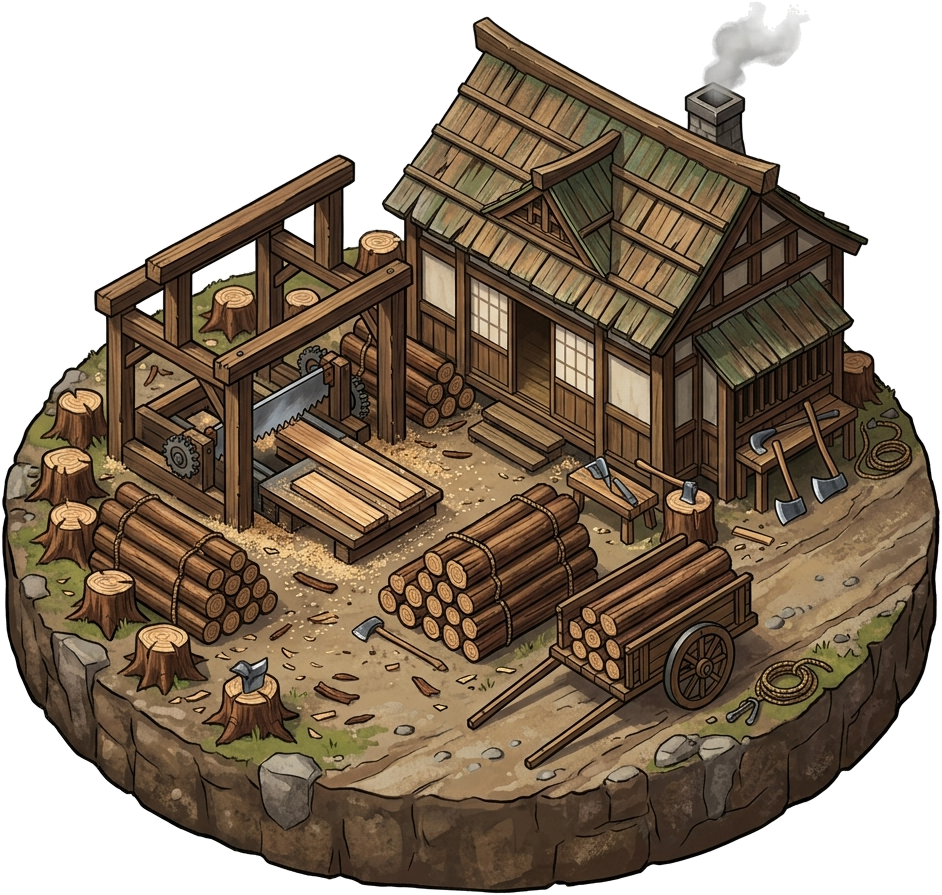
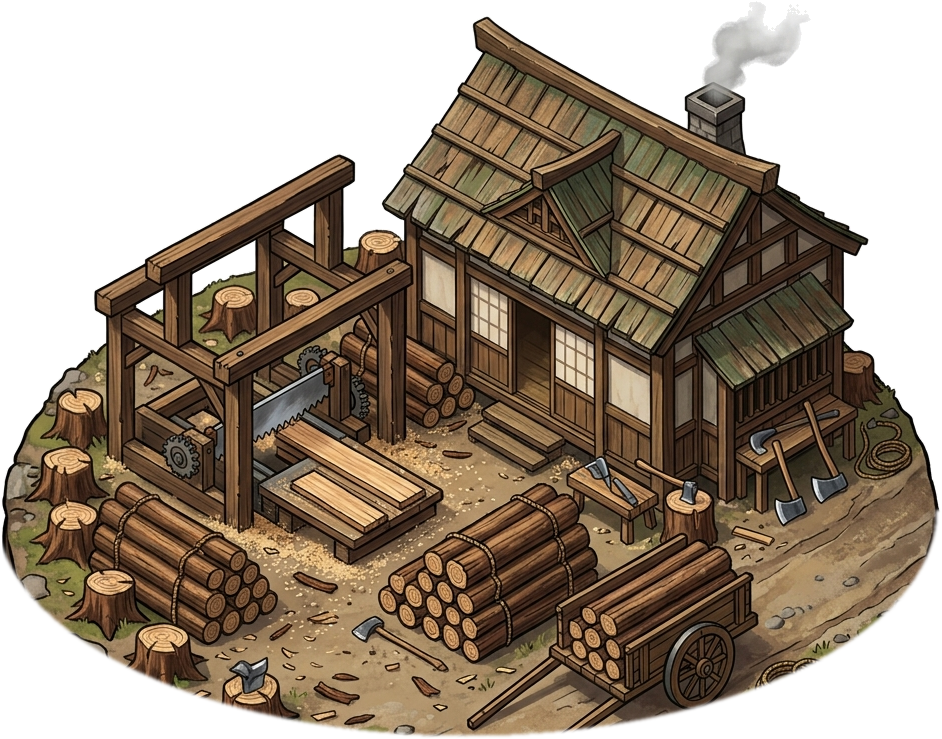
feat(city, resources): lower tenshu, circularize resource tiles, and add 6 feudal buildings to complete all 16 city slots

diff --git a/config/game_constants.php b/config/game_constants.php
@@ -73,12 +73,12 @@ const CITY_SLOT_LAYOUT = [
     26 => 'radar',         // Tour de Guet Yagura (octogonale centrale)
     27 => 'quantum_vault', // Cachette Secrète Sous Terre
     28 => 'embassy',       // Pavillon Diplomatique des Clans
-    29 => 'free_plot',     // Emplacement Libre / Terrain à Bâtir
-    30 => 'free_plot',     // Emplacement Libre / Terrain à Bâtir
-    31 => 'free_plot',     // Emplacement Libre / Terrain à Bâtir
-    32 => 'free_plot',     // Emplacement Libre / Terrain à Bâtir
-    33 => 'free_plot',     // Emplacement Libre / Terrain à Bâtir
-    34 => 'wall',          // Muraille & Remparts de Cité (Enceinte fortifiée)
+    29 => 'sawmill',           // Atelier de Charpenterie (Kizukuri)
+    30 => 'stonemason',        // Taille de Granit & Maçonnerie (Ishizukuri)
+    31 => 'grain_mill',        // Meunerie & Brasserie de Riz (Sakagura)
+    32 => 'blacksmith',        // Grande Forge du Tamahagane (Kaji-ba)
+    33 => 'teahouse',          // Pavillon de Thé & Sérénité (Chashitsu)
+    34 => 'wall',              // Muraille & Remparts de Cité (Enceinte fortifiée)
 ];
 
 // Métadonnées des parcelles rurales du domaine
@@ -239,6 +239,66 @@ const BUILDINGS = [
         'base_cost' => ['metal' => 110, 'crystal' => 160, 'deuterium' => 90],
         'cost_multiplier' => 1.45,
         'base_time' => 130,
+        'max_level' => 20
+    ],
+    'sawmill' => [
+        'name' => 'Atelier de Charpenterie (Kizukuri)',
+        'icon' => '🪚',
+        'tile_img' => 'tile_sawmill.png',
+        'description' => 'Atelier des maîtres charpentiers façonnant poutres et madriers. Augmente la production de Bois de Cèdre de votre fief de +5% par niveau.',
+        'base_cost' => ['metal' => 180, 'crystal' => 140, 'deuterium' => 60],
+        'cost_multiplier' => 1.5,
+        'base_time' => 150,
+        'max_level' => 20
+    ],
+    'stonemason' => [
+        'name' => 'Taille de Granit & Maçonnerie (Ishizukuri)',
+        'icon' => '⛏',
+        'tile_img' => 'tile_stonemason.png',
+        'description' => 'Atelier des tailleurs de pierre taillant les blocs cyclopéens. Augmente la production de Pierre de Taille de +5% par niveau et renforce la résistance des édifices.',
+        'base_cost' => ['metal' => 130, 'crystal' => 190, 'deuterium' => 70],
+        'cost_multiplier' => 1.5,
+        'base_time' => 160,
+        'max_level' => 20
+    ],
+    'grain_mill' => [
+        'name' => 'Meunerie & Brasserie de Riz (Sakagura)',
+        'icon' => '🍶',
+        'tile_img' => 'tile_grain_mill.png',
+        'description' => 'Brasserie et meunerie artisanale traitant les récoltes de riz. Augmente la production de Koku de Riz de +5% par niveau.',
+        'base_cost' => ['metal' => 160, 'crystal' => 150, 'deuterium' => 100],
+        'cost_multiplier' => 1.5,
+        'base_time' => 170,
+        'max_level' => 20
+    ],
+    'blacksmith' => [
+        'name' => 'Grande Forge du Tamahagane (Kaji-ba)',
+        'icon' => '⚔',
+        'tile_img' => 'tile_blacksmith.png',
+        'description' => 'Forge des maîtres armuriers façonnant le tamahagane. Confère un bonus de +2% en puissance martiale et résistance d\'armure à toutes vos troupes par niveau.',
+        'base_cost' => ['metal' => 220, 'crystal' => 180, 'deuterium' => 90],
+        'cost_multiplier' => 1.55,
+        'base_time' => 190,
+        'max_level' => 20
+    ],
+    'teahouse' => [
+        'name' => 'Pavillon de Thé & Sérénité (Chashitsu)',
+        'icon' => '🍵',
+        'tile_img' => 'tile_teahouse.png',
+        'description' => 'Pavillon de méditation et cérémonie du thé entouré d\'un jardin zen. Augmente la Sérénité & Ferveur de votre domaine de +5% par niveau.',
+        'base_cost' => ['metal' => 140, 'crystal' => 120, 'deuterium' => 80],
+        'cost_multiplier' => 1.5,
+        'base_time' => 140,
+        'max_level' => 20
+    ],
+    'tournament_square' => [
+        'name' => 'Place d\'Exercices & Relais (Shurenjo)',
+        'icon' => '🎯',
+        'tile_img' => 'tile_tournament_square.png',
+        'description' => 'Terrain de manœuvres et relais de cavalerie. Augmente la vitesse de déplacement des armées de +10% par niveau lors des marches à longue distance (> 20 provinces).',
+        'base_cost' => ['metal' => 250, 'crystal' => 200, 'deuterium' => 150],
+        'cost_multiplier' => 1.55,
+        'base_time' => 200,
         'max_level' => 20
     ]
 ];

diff --git a/core/PlanetEngine.php b/core/PlanetEngine.php
@@ -391,6 +391,28 @@ class PlanetEngine {
             }
         }
 
+        // Bonus des édifices urbains de spécialisation (Style Travian : Scierie, Briqueterie, Moulin, Pavillon de Thé)
+        $sawmillMult = 1.0;
+        $stonemasonMult = 1.0;
+        $grainMillMult = 1.0;
+        $teahouseLvl = 0;
+        if ($planetId !== null && $planetId > 0) {
+            try {
+                $buildings = $this->getBuildings($planetId);
+                $sawmillLvl = (int)($buildings['sawmill'] ?? 0);
+                $stonemasonLvl = (int)($buildings['stonemason'] ?? 0);
+                $grainMillLvl = (int)($buildings['grain_mill'] ?? 0);
+                $teahouseLvl = (int)($buildings['teahouse'] ?? 0);
+
+                if ($sawmillLvl > 0) $sawmillMult += ($sawmillLvl * 0.05);
+                if ($stonemasonLvl > 0) $stonemasonMult += ($stonemasonLvl * 0.05);
+                if ($grainMillLvl > 0) $grainMillMult += ($grainMillLvl * 0.05);
+                if ($teahouseLvl > 0) $energyMax = (int)($energyMax * (1.0 + ($teahouseLvl * 0.05)));
+            } catch (Exception $e) {
+                // Fallback silencieux
+            }
+        }
+
         // Ratio énergétique :
         // Si l'énergie disponible est négative (consommation > production disponible),
         // la production de ressources ne fonctionne qu'à 10% (0.10)
@@ -428,14 +450,20 @@ class PlanetEngine {
         }
 
         return [
-            'metal' => (int)(($metalBase + ($metalMineProd * $speed)) * $energyRatio * $oasisBonusMult['wood']) + $heroProdBonus['metal'],
-            'crystal' => (int)(($crystalBase + ($crystalMineProd * $speed)) * $energyRatio * $oasisBonusMult['stone']) + $heroProdBonus['crystal'],
-            'deuterium' => (int)(($deutBase + ($deutSynthProd * $speed)) * $energyRatio * $oasisBonusMult['rice']) + $heroProdBonus['deuterium'],
+            'metal' => (int)(($metalBase + ($metalMineProd * $speed)) * $energyRatio * $oasisBonusMult['wood'] * $sawmillMult) + $heroProdBonus['metal'],
+            'crystal' => (int)(($crystalBase + ($crystalMineProd * $speed)) * $energyRatio * $oasisBonusMult['stone'] * $stonemasonMult) + $heroProdBonus['crystal'],
+            'deuterium' => (int)(($deutBase + ($deutSynthProd * $speed)) * $energyRatio * $oasisBonusMult['rice'] * $grainMillMult) + $heroProdBonus['deuterium'],
             'energy_max' => $energyMax,
             'energy_used' => $energyUsed,
             'energy_ratio' => $energyRatio,
             'oasis_bonuses' => $oasisBonuses,
-            'hero_bonuses' => $heroProdBonus
+            'hero_bonuses' => $heroProdBonus,
+            'building_bonuses' => [
+                'sawmill' => (int)round(($sawmillMult - 1.0) * 100),
+                'stonemason' => (int)round(($stonemasonMult - 1.0) * 100),
+                'grain_mill' => (int)round(($grainMillMult - 1.0) * 100),
+                'teahouse' => (int)($teahouseLvl * 5)
+            ]
         ];
     }
 

diff --git a/tests/test_new_buildings_and_slots.php b/tests/test_new_buildings_and_slots.php
@@ -1,0 +1,55 @@
+<?php
+require_once __DIR__ . '/../config/game_constants.php';
+require_once __DIR__ . '/../core/BuildingEngine.php';
+require_once __DIR__ . '/../core/PlanetEngine.php';
+require_once __DIR__ . '/../core/CombatEngine.php';
+require_once __DIR__ . '/../core/FleetEngine.php';
+
+echo "=== TEST 1: BUILDINGS Configuration & Upgrade Details ===\n";
+$bEngine = new BuildingEngine();
+$newBuildings = ['sawmill', 'stonemason', 'grain_mill', 'blacksmith', 'teahouse', 'tournament_square'];
+
+foreach ($newBuildings as $code) {
+    if (!isset(BUILDINGS[$code])) {
+        throw new Exception("Missing building constant: $code");
+    }
+    $info = BUILDINGS[$code];
+    $det0 = $bEngine->getUpgradeDetails('building', $code, 0, 1);
+    $det1 = $bEngine->getUpgradeDetails('building', $code, 1, 1);
+    
+    echo sprintf("  [OK] %-18s | %-45s | Lvl 1: Wood=%-4d Stone=%-4d Rice=%-4d Time=%ds\n", 
+        $code, $info['name'], $det0['cost']['metal'], $det0['cost']['crystal'], $det0['cost']['deuterium'], $det0['duration']);
+}
+
+echo "\n=== TEST 2: Asset Verification ===\n";
+foreach (BUILDINGS as $code => $info) {
+    $file = __DIR__ . '/../public/assets/' . $info['tile_img'];
+    if (!file_exists($file) || filesize($file) < 1000) {
+        throw new Exception("Missing or invalid asset for $code: {$info['tile_img']}");
+    }
+    $size = getimagesize($file);
+    echo sprintf("  [OK] Asset: %-28s (%dx%d, %d KB)\n", $info['tile_img'], $size[0], $size[1], round(filesize($file)/1024));
+}
+
+echo "\n=== TEST 3: Resource Production Bonus Calculations ===\n";
+$pEngine = new PlanetEngine();
+$dummyFields = [
+    ['field_slot' => 1, 'type' => 'metal_mine', 'level' => 10],
+    ['field_slot' => 2, 'type' => 'crystal_mine', 'level' => 10],
+    ['field_slot' => 3, 'type' => 'deuterium_synth', 'level' => 10],
+    ['field_slot' => 4, 'type' => 'solar_plant', 'level' => 10],
+];
+$baseProd = $pEngine->calculateProduction($dummyFields, null);
+echo sprintf("  Base yields without bonuses: Wood=%d/h, Stone=%d/h, Rice=%d/h, Energy=%d\n", 
+    $baseProd['metal'], $baseProd['crystal'], $baseProd['deuterium'], $baseProd['energy_max']);
+
+echo "\n=== TEST 4: CITY_SLOT_LAYOUT Completeness ===\n";
+for ($s = 19; $s <= 34; $s++) {
+    if (!isset(CITY_SLOT_LAYOUT[$s])) {
+        throw new Exception("Missing slot $s in CITY_SLOT_LAYOUT");
+    }
+    $bCode = CITY_SLOT_LAYOUT[$s];
+    echo sprintf("  Slot %2d: %-18s (%s)\n", $s, $bCode, BUILDINGS[$bCode]['name'] ?? 'Inconnu');
+}
+
+echo "\nALL TESTS PASSED SUCCESSFULLY!\n";

diff --git a/core/FleetEngine.php b/core/FleetEngine.php
@@ -362,7 +362,7 @@ class FleetEngine {
     /**
      * Calcule la durée de trajet selon la flotte, la distance et les bonus
      */
-    public function calculateFlightDuration(array $fleet, float $distance, string $faction): int {
+    public function calculateFlightDuration(array $fleet, float $distance, string $faction, ?int $sourcePlanetId = null): int {
         $stmt = $this->db->query("SELECT code, speed FROM ships");
         $speeds = $stmt->fetchAll(PDO::FETCH_KEY_PAIR);
         $stmtU = $this->db->query("SELECT code, speed FROM units");
@@ -379,6 +379,20 @@ class FleetEngine {
         // Bonus Aethelis : +20% vitesse de flotte
         if ($faction === 'aethelis') {
             $minSpeed = (int)($minSpeed * 1.20);
+        }
+
+        // Bonus Place d'Exercices & Relais (tournament_square) : Style Travian
+        // +10% de vitesse de déplacement par niveau lors des marches à longue distance (> 20 provinces)
+        if ($sourcePlanetId !== null && $sourcePlanetId > 0 && $distance >= 20.0) {
+            try {
+                $buildings = $this->planetEngine->getBuildings($sourcePlanetId);
+                $tsLvl = (int)($buildings['tournament_square'] ?? 0);
+                if ($tsLvl > 0) {
+                    $minSpeed = (int)round($minSpeed * (1.0 + ($tsLvl * 0.10)));
+                }
+            } catch (Exception $e) {
+                // Fallback silencieux
+            }
         }
 
         $gameSpeed = max(1, (float)GameConfig::get('fleet_speed', defined('SPEED_FACTOR') ? SPEED_FACTOR : 5));
@@ -478,7 +492,7 @@ class FleetEngine {
 
         // 4. Calcul de distance et durée
         $distance = self::calculateDistance($sourcePlanet['coord_x'], $sourcePlanet['coord_y'], $destX, $destY);
-        $duration = $this->calculateFlightDuration($cleanFleet, $distance, $sourcePlanet['faction']);
+        $duration = $this->calculateFlightDuration($cleanFleet, $distance, $sourcePlanet['faction'], $sourcePlanetId);
 
         // 5. Calcul des rations de riz (koku) requises pour la marche
         $effectiveMarches = max(1, $totalShips + ($hasHero ? 1 : 0));

diff --git a/core/CombatEngine.php b/core/CombatEngine.php
@@ -136,11 +136,32 @@ class CombatEngine {
             $defShield = (int)($defShield * 1.15);
         }
 
+        // Bonus Forge du Tamahagane de l'attaquant (+2% puissance et protection par niveau)
+        if (!empty($mission['source_planet_id'])) {
+            $attBuildings = $this->planetEngine->getBuildings((int)$mission['source_planet_id']);
+            $attForgeLvl = (int)($attBuildings['blacksmith'] ?? 0);
+            if ($attForgeLvl > 0) {
+                $attForgeMult = 1.0 + ($attForgeLvl * 0.02);
+                $attPower = (int)round($attPower * $attForgeMult);
+                $attShield = (int)round($attShield * $attForgeMult);
+                $attHull = (int)round($attHull * $attForgeMult);
+            }
+        }
+
         // Application des bonus de la muraille féodale
         if ($wallLvl > 0) {
             $defShield = (int)($defShield * $wallDefenseMultiplier);
             $defHull = (int)($defHull * $wallDefenseMultiplier) + $wallStructuralDefense;
             $defPower += $wallRipostePower;
+        }
+
+        // Bonus Forge du Tamahagane du défenseur (+2% défense et riposte par niveau)
+        $defForgeLvl = (int)($targetBuildings['blacksmith'] ?? 0);
+        if ($defForgeLvl > 0) {
+            $defForgeMult = 1.0 + ($defForgeLvl * 0.02);
+            $defPower = (int)round($defPower * $defForgeMult);
+            $defShield = (int)round($defShield * $defForgeMult);
+            $defHull = (int)round($defHull * $defForgeMult);
         }
 
         // Simulation de 3 rounds de combat

diff --git a/core/SlotPositionEngine.php b/core/SlotPositionEngine.php
@@ -42,7 +42,7 @@ class SlotPositionEngine {
 
         if ($view === 'city') {
             return [
-                "19" => [ "left" => 52.5, "top" => 2.4,  "width" => 18.0, "height" => 27.0, "z" => 10 ],
+                "19" => [ "left" => 51.0, "top" => 4.0,  "width" => 23.0, "height" => 40.0, "z" => 10 ],
                 "20" => [ "left" => 36.2, "top" => 11.4, "width" => 12.5, "height" => 20.0, "z" => 6 ],
                 "21" => [ "left" => 27.0, "top" => 19.1, "width" => 12.0, "height" => 21.0, "z" => 7 ],
                 "22" => [ "left" => 19.0, "top" => 25.9, "width" => 13.0, "height" => 20.0, "z" => 8 ],

diff --git a/views/city.php b/views/city.php
@@ -40,6 +40,12 @@ $buildingSectors = [
     'tank' => 'logistics',
     'quantum_vault' => 'logistics',
     'market' => 'logistics',
+    'sawmill' => 'logistics',
+    'stonemason' => 'logistics',
+    'grain_mill' => 'logistics',
+    'blacksmith' => 'military',
+    'teahouse' => 'science',
+    'tournament_square' => 'military',
     'free_plot' => 'logistics',
 ];
 
